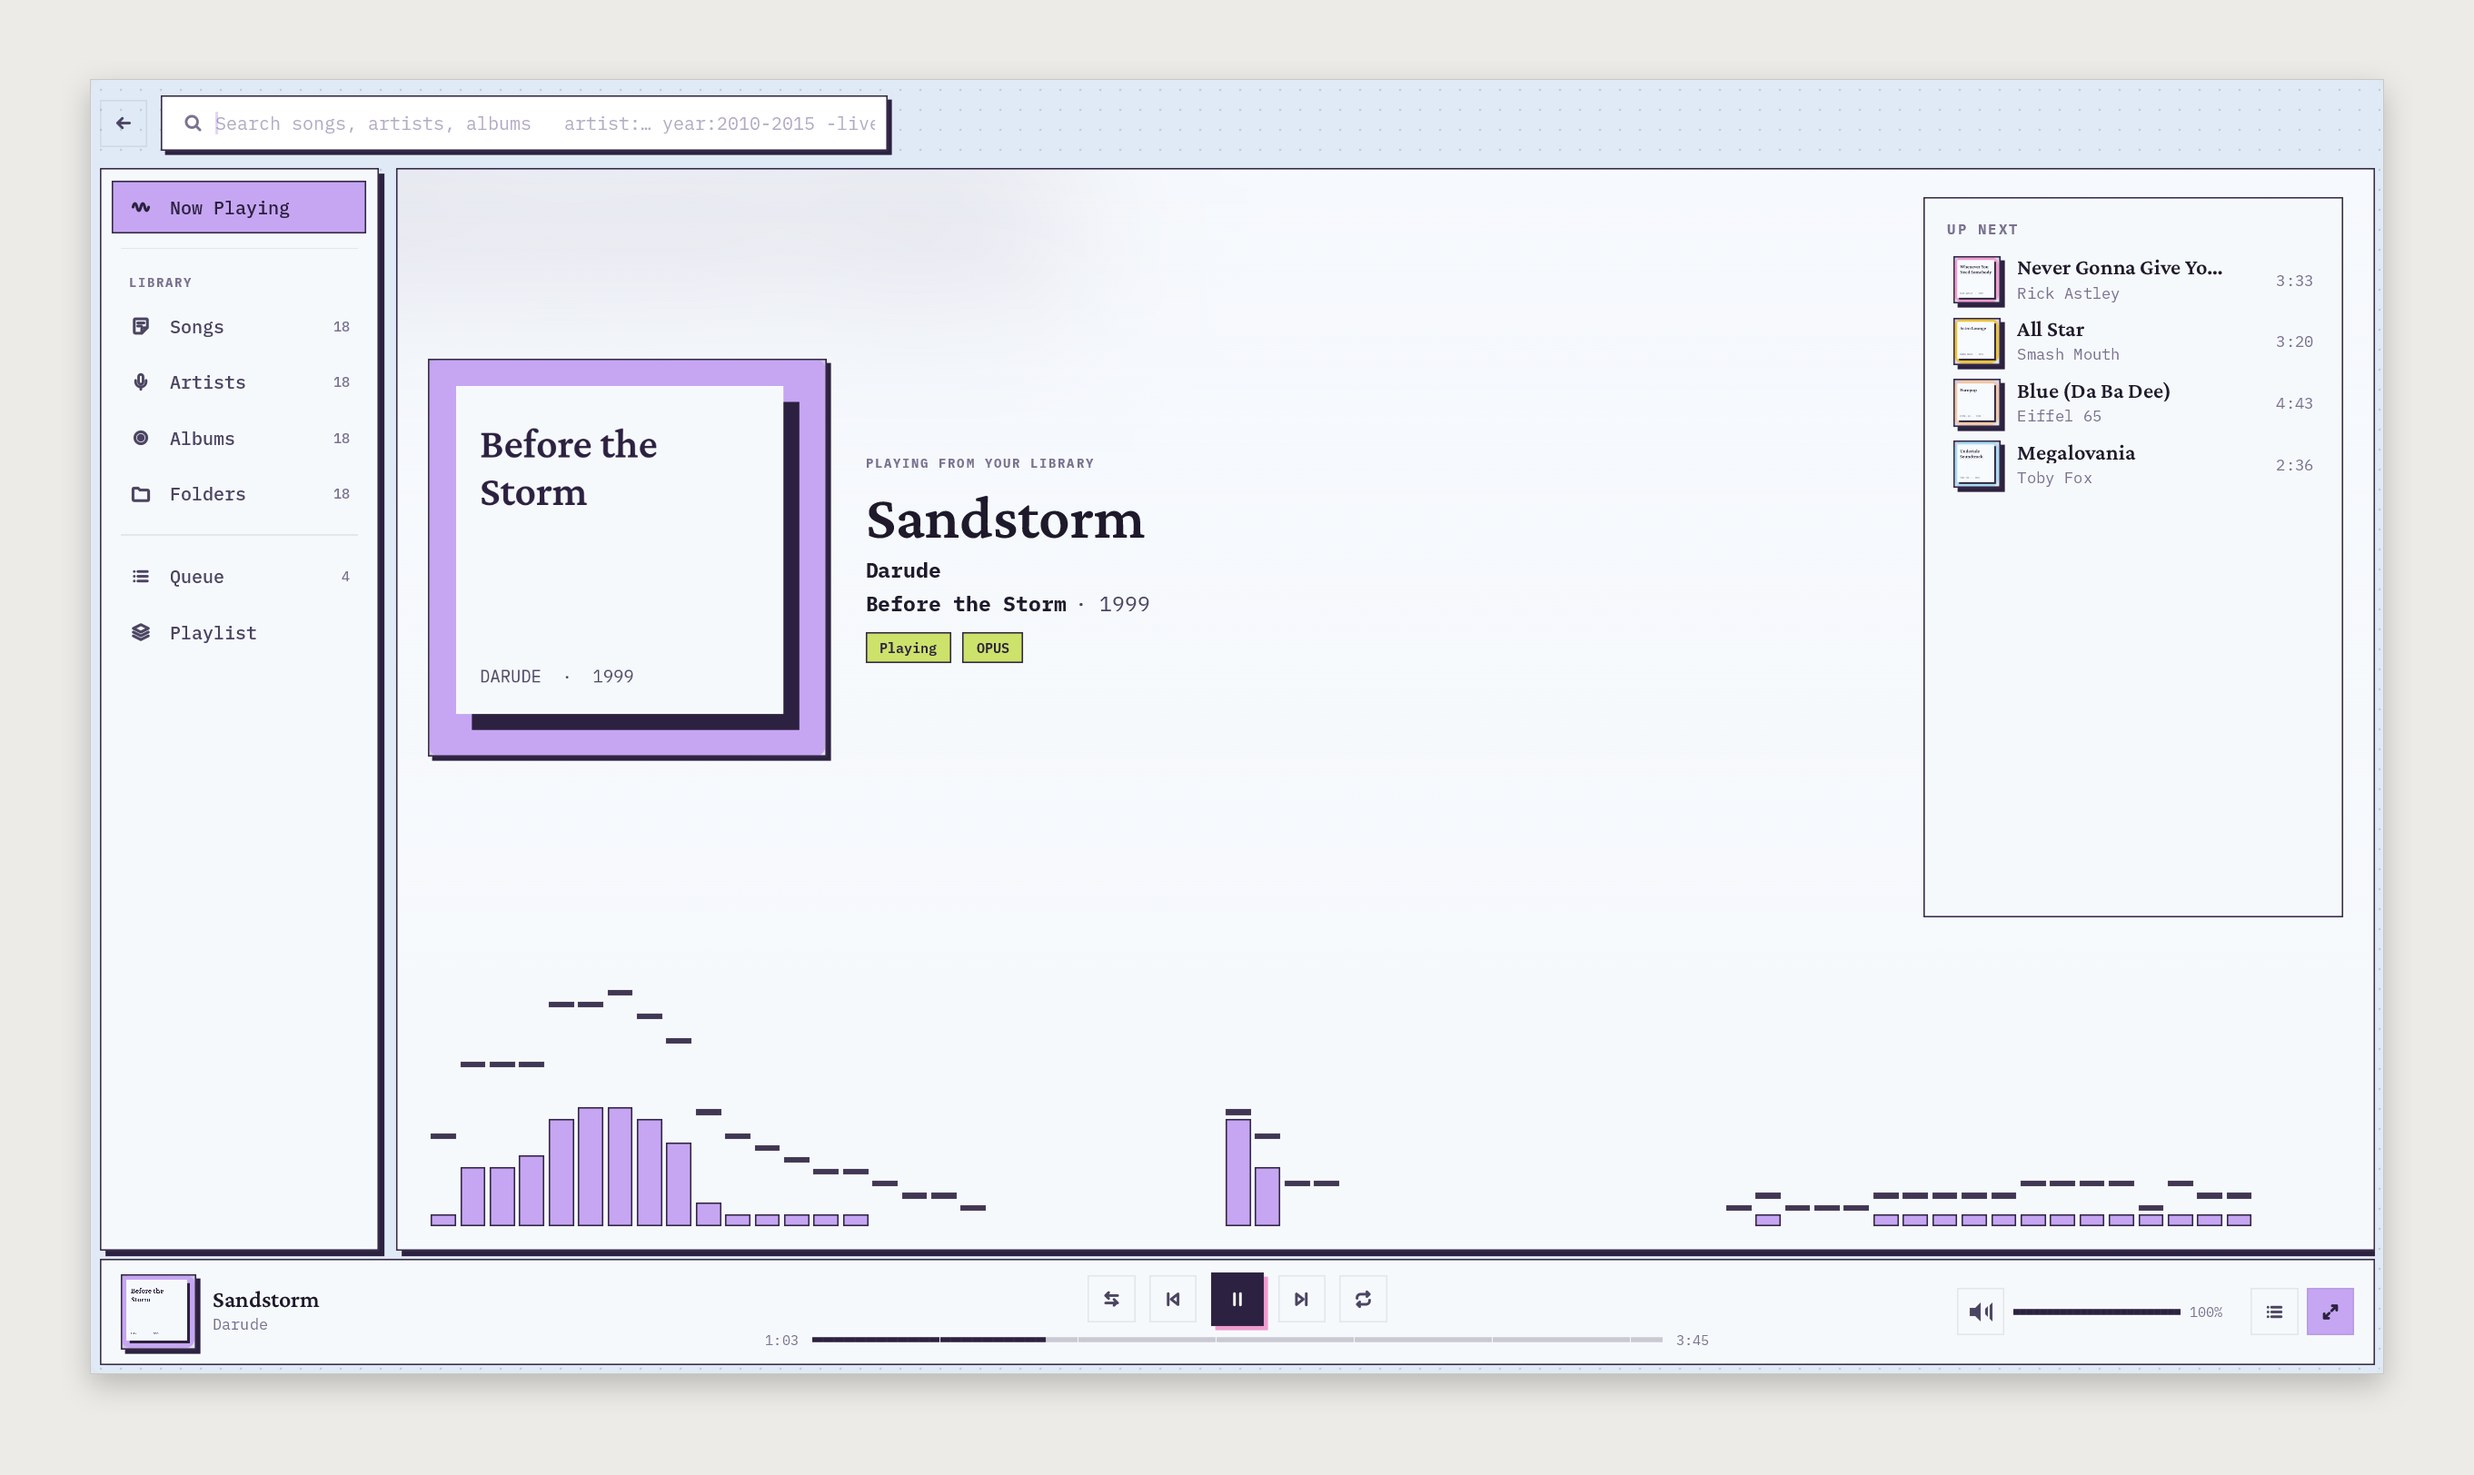
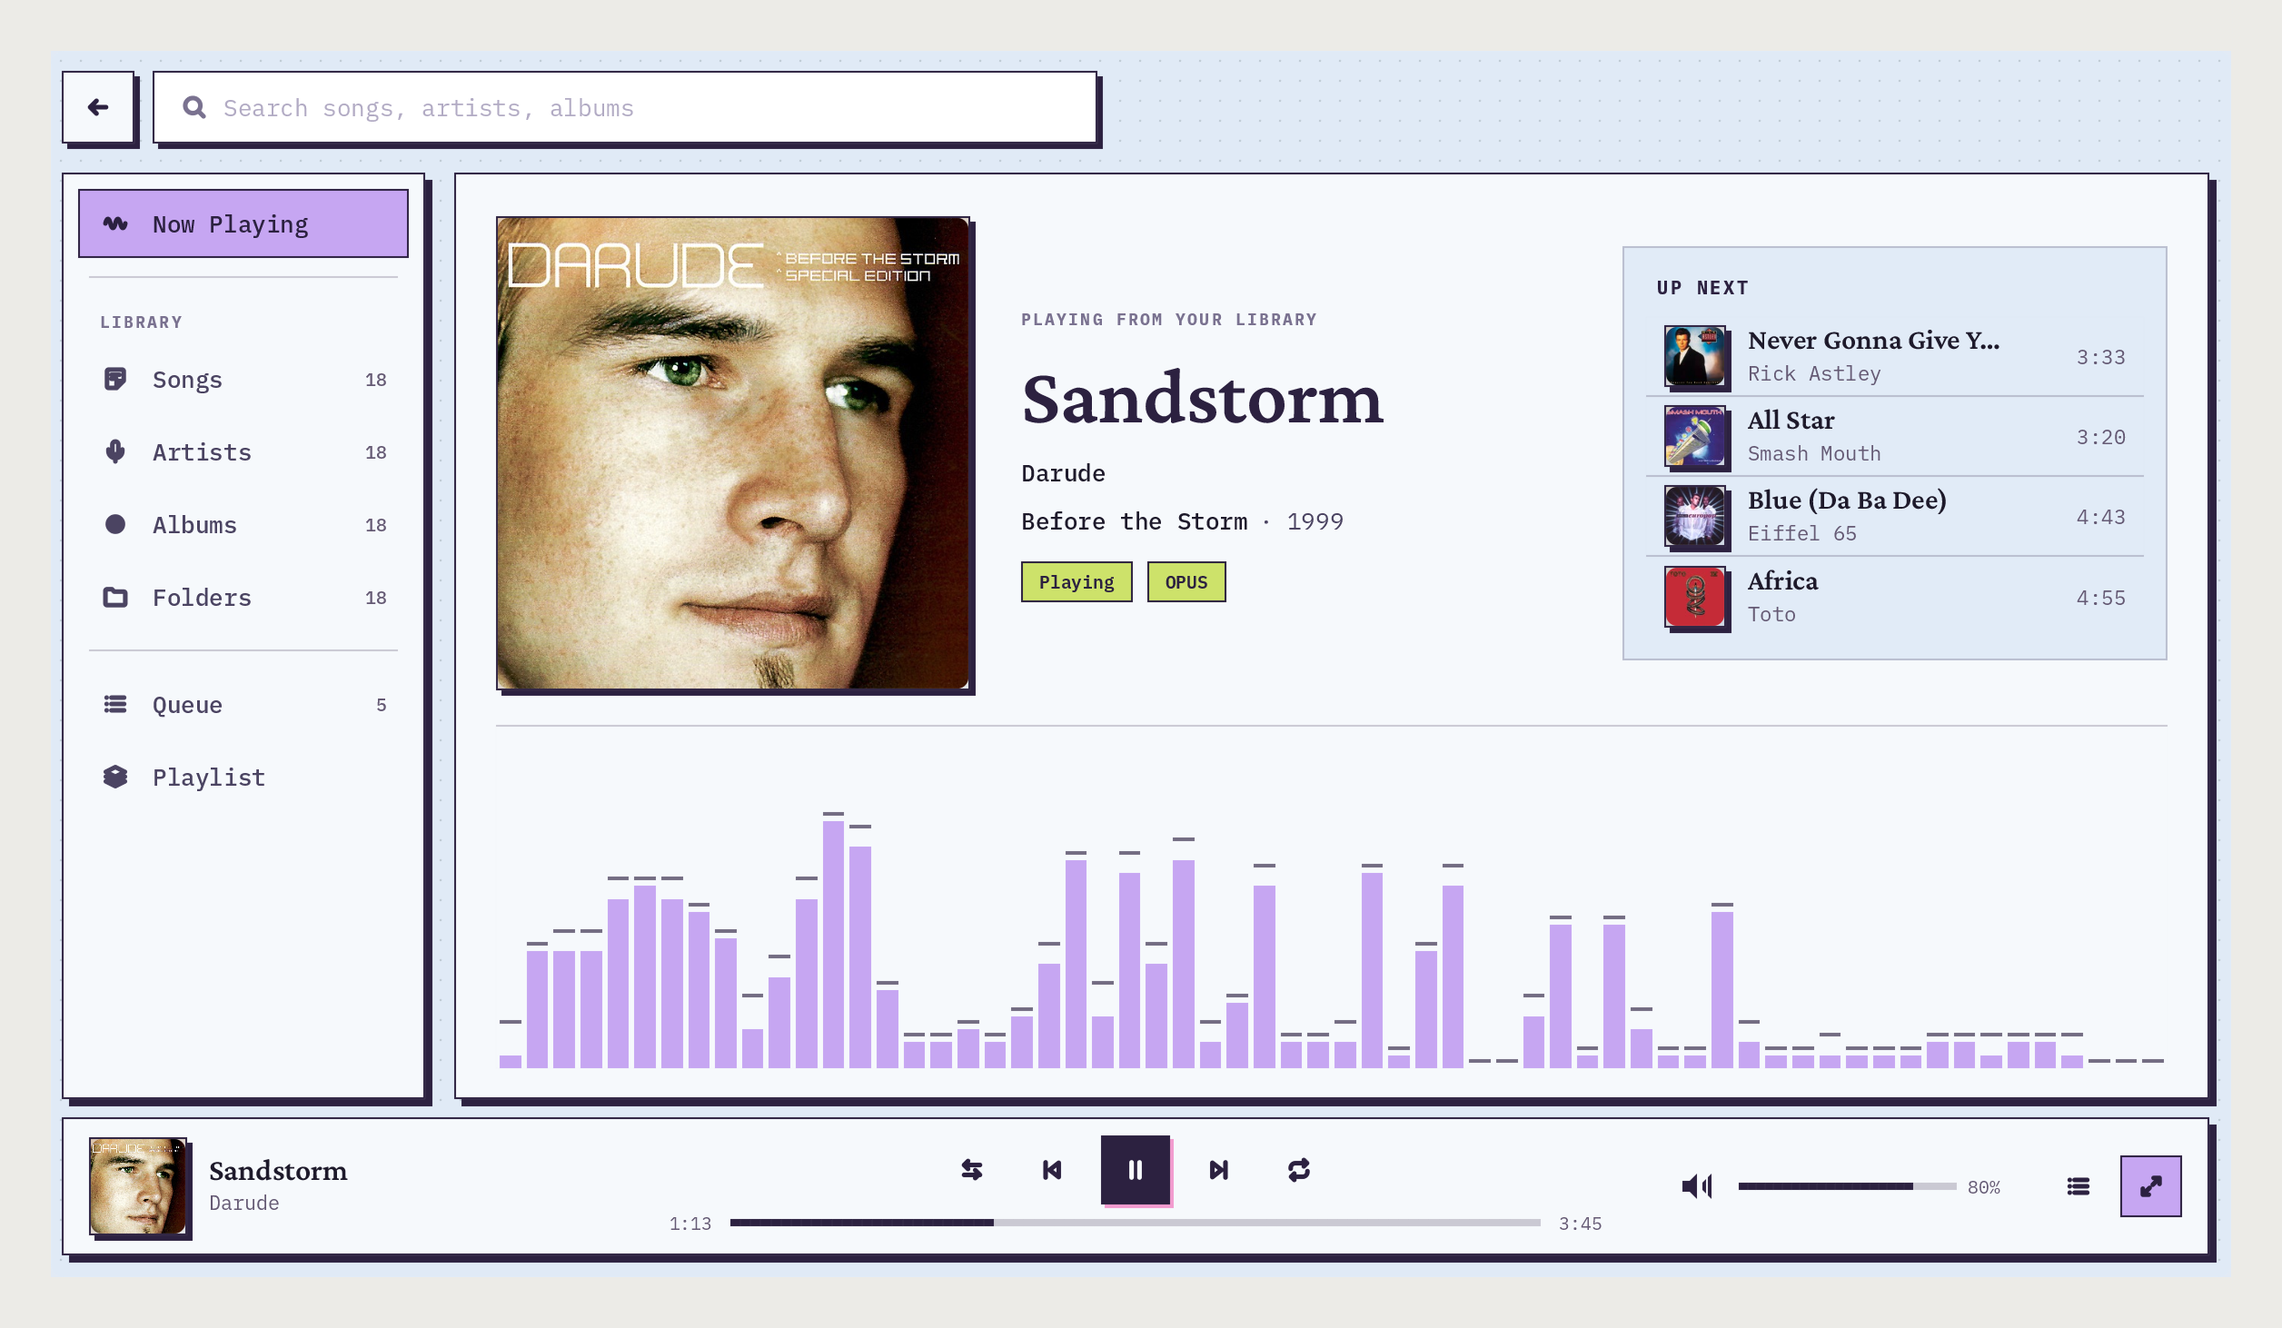
demo: real album art via iTunes search, fuller synthetic audio, library.py builds the demo library and cmus cache, shots rendered headless with consistent playback position

Changed region(s): [[0.0, 0.0308, 0.9936, 0.9542], [0.4658, 0.2155, 0.5589, 0.2462]]

diff --git a/demo/library.py b/demo/library.py
@@ -1,0 +1,80 @@
+#!/usr/bin/env python3
+import json
+import os
+import shutil
+import subprocess
+import sys
+import time
+import urllib.parse
+import urllib.request
+
+DEMO = os.path.dirname(os.path.abspath(__file__))
+MUSIC = os.path.join(DEMO, "music")
+HOME = os.path.join(DEMO, "cmus-home")
+ALBUM_QUERY = {
+    "Make It Big": ("Wham! Make It Big", 0),
+    "Out of the Blue": ("Electric Light Orchestra Out of the Blue", 0),
+    "Nightflight to Venus": ("Boney M. Nightflight to Venus", 0),
+    "DiscO-Zone": ("O-Zone DiscO-Zone", 0),
+    "The Album": ("Haddaway The Album", 1),
+    "Europop": ("Eiffel 65 Europop", 0),
+    "Psy 6 (Six Rules), Part 1": ("PSY 6 Rules Part 1", 0),
+    "Super Eurobeat Vol. 84": ("Super Eurobeat Vol. 84", 1),
+    "Crazy Frog Presents Crazy Hits": ("Crazy Frog Presents Crazy Hits", 0),
+}
+BEAT = ("0.45*sin(2*PI*55*t)*exp(-7*mod(t,0.5))"
+        "+0.22*sin(2*PI*(110+55*floor(mod(t*2,4)))*t)"
+        "+0.12*(sin(2*PI*262*t)+sin(2*PI*330*t)+sin(2*PI*392*t))*(0.4+0.6*exp(-3*mod(t,1)))"
+        "+0.08*(sin(2*PI*523*t)+sin(2*PI*784*t)+sin(2*PI*1046*t))*(0.5+0.5*sin(2*PI*0.5*t))"
+        "+0.05*(sin(2*PI*1568*t)+sin(2*PI*2093*t)+sin(2*PI*3136*t))*exp(-6*mod(t+0.25,0.5))"
+        "+0.06*(random(0)-0.5)*exp(-25*mod(t,0.25))")
+
+
+def itunes(term, entity, pick):
+    query = urllib.parse.urlencode({"term": term, "entity": entity, "limit": 5})
+    results = json.load(urllib.request.urlopen(f"https://itunes.apple.com/search?{query}", timeout=20))["results"]
+    return results[min(pick, len(results) - 1)] if results else None
+
+
+def cover(title, artist, album):
+    term, pick = ALBUM_QUERY.get(album, (f"{artist} {title}", 0))
+    hit = itunes(term, "album" if album in ALBUM_QUERY else "song", pick)
+    if not hit:
+        return None
+    return urllib.request.urlopen(hit["artworkUrl100"].replace("100x100bb", "1000x1000bb"), timeout=30).read()
+
+
+def main():
+    tracks = json.load(open(os.path.join(DEMO, "tracks.json")))
+    shutil.rmtree(MUSIC, ignore_errors=True)
+    shutil.rmtree(HOME, ignore_errors=True)
+    os.makedirs(HOME)
+    for title, artist, album, year, seconds in tracks:
+        folder = os.path.join(MUSIC, artist.replace("/", "-"), album.replace("/", "-"))
+        os.makedirs(folder)
+        art = cover(title, artist, album)
+        if art:
+            open(os.path.join(folder, "cover.jpg"), "wb").write(art)
+        else:
+            print("no cover:", artist, album, file=sys.stderr)
+        subprocess.run(["ffmpeg", "-loglevel", "error", "-y", "-f", "lavfi", "-i", f"aevalsrc='{BEAT}':s=32000:d={seconds}",
+                        "-c:a", "libopus", "-b:a", "32k", "-metadata", f"title={title}", "-metadata", f"artist={artist}",
+                        "-metadata", f"album={album}", "-metadata", f"date={year}",
+                        os.path.join(folder, title.replace("/", "-") + ".opus")], check=True)
+    env = dict(os.environ, CMUS_HOME=HOME, CMUS_SOCKET=os.path.join(HOME, "socket"))
+    cmus = subprocess.Popen(["script", "-qfc", "cmus", "/dev/null"], env=env, stdin=subprocess.PIPE,
+                            stdout=subprocess.DEVNULL, stderr=subprocess.DEVNULL)
+    remote = ["cmus-remote", "--server", env["CMUS_SOCKET"]]
+    for _ in range(100):
+        if subprocess.run(remote + ["-Q"], capture_output=True).returncode == 0:
+            break
+        time.sleep(0.1)
+    subprocess.run(remote + ["-l", MUSIC], check=True)
+    time.sleep(3)
+    subprocess.run(remote + ["-C", "quit"])
+    cmus.wait(timeout=20)
+    print(f"{len(tracks)} tracks in {MUSIC}, cmus cache in {HOME}")
+
+
+if __name__ == "__main__":
+    main()
